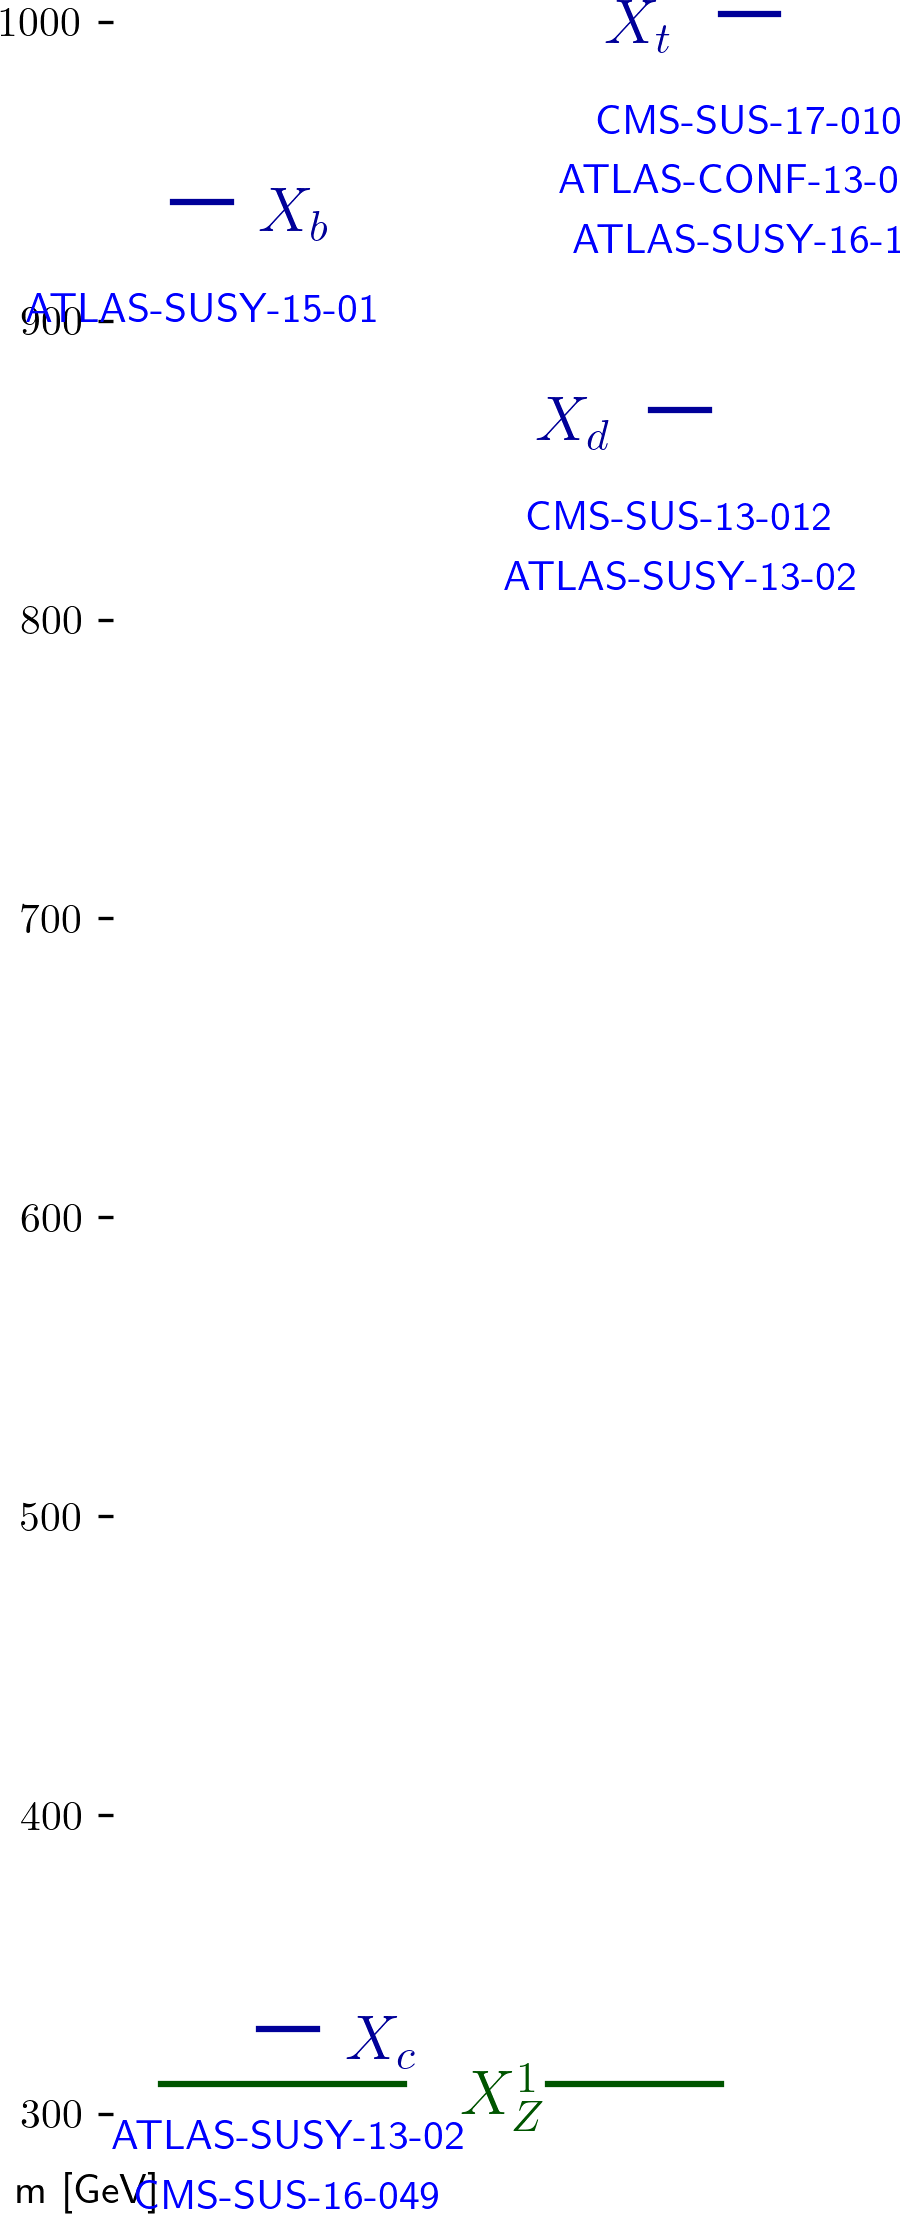
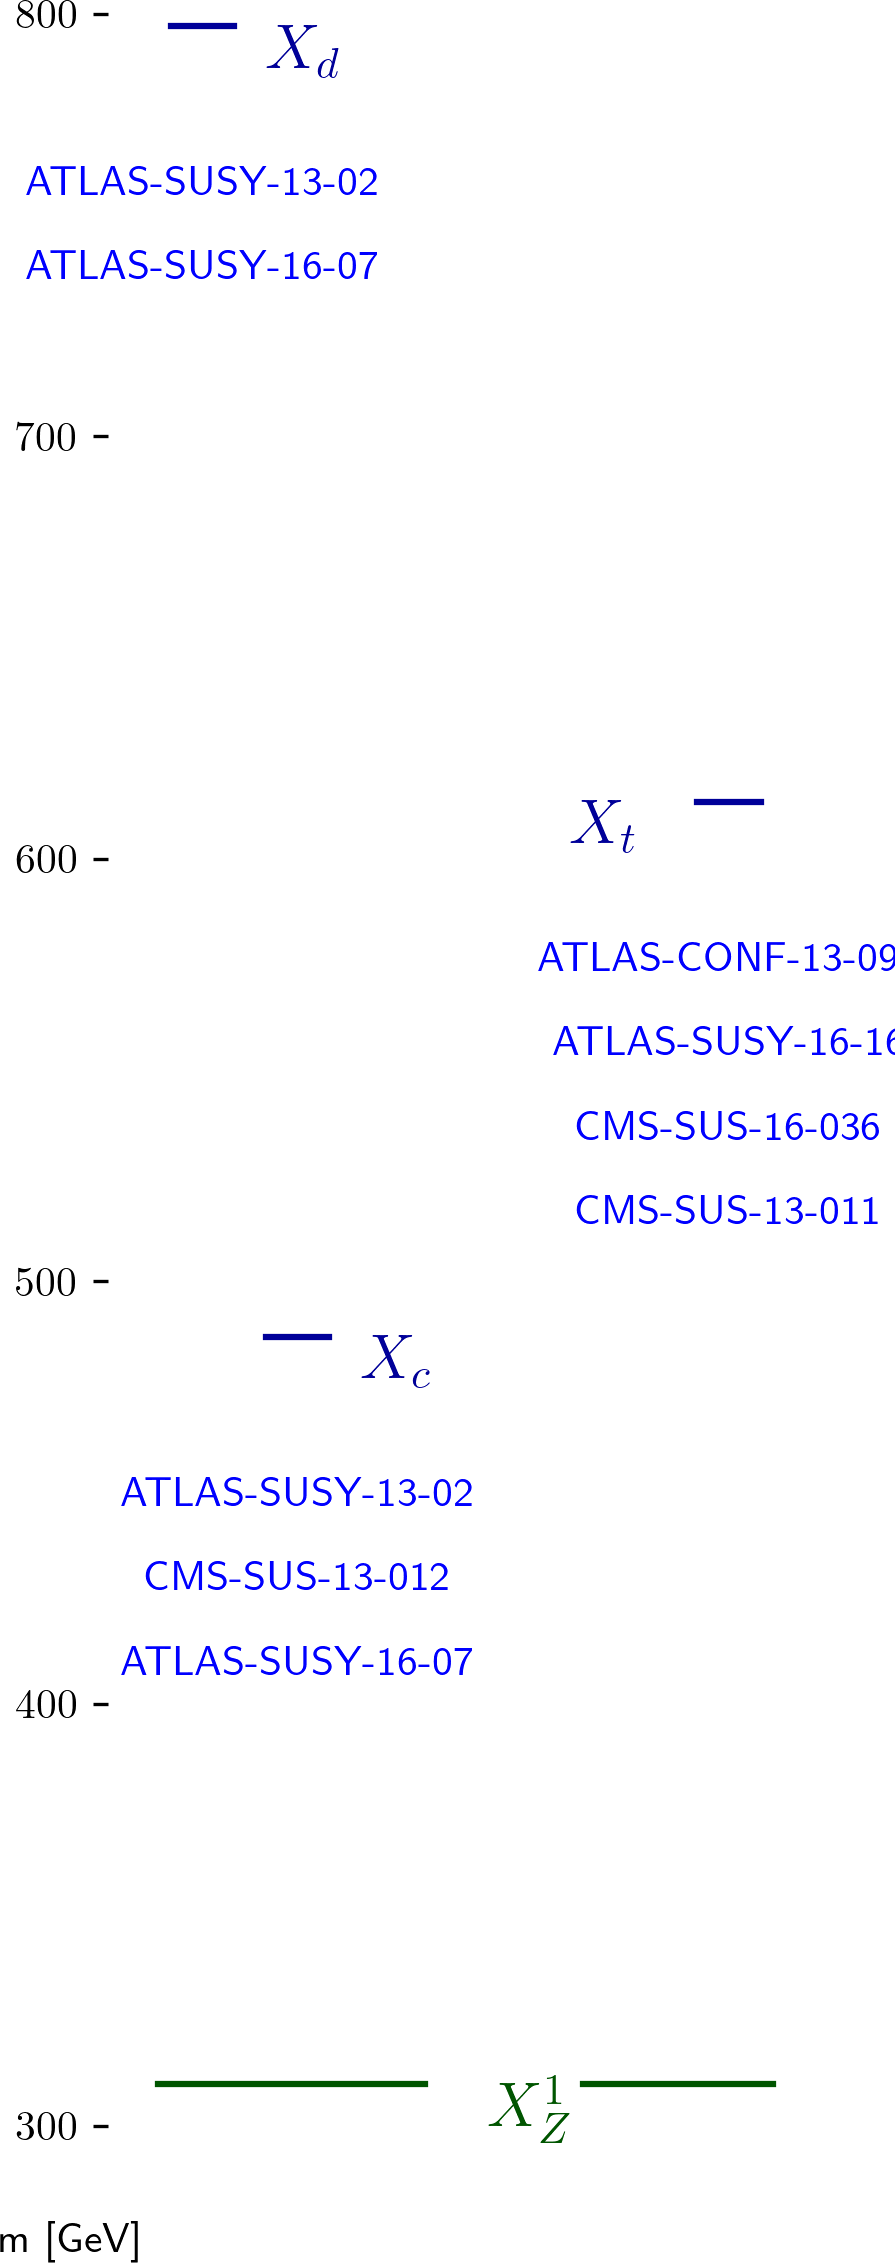
automated update by plotHiscore.py

diff --git a/protomodels/latest/rawnumbers.html b/protomodels/latest/rawnumbers.html
@@ -1,11 +1,11 @@
 <table>
 <tr><th>Analysis Name</th><th>Type</th><th>Dataset</th><th>Observed</th><th>Expected</th><th>Approx &sigma;</th><th>Particles</th>
 </tr>
-<tr><td><a href=https://atlas.web.cern.ch/Atlas/GROUPS/PHYSICS/PAPERS/SUSY-2015-01/>ATLAS-SUSY-2015-01</a></td><td>em</td> <td>SRA450</td><td>6</td><td>1.8 +/- 0.4</td><td style="text-align:right">3.0 &sigma;</td><td style="text-align:right">X<sub>b</sub></td></tr>
-<tr><td><a href=https://atlas.web.cern.ch/Atlas/GROUPS/PHYSICS/PAPERS/SUSY-2016-16/>ATLAS-SUSY-2016-16</a></td><td>em</td> <td>tN_high</td><td>7</td><td>3.8 +/- 1</td><td style="text-align:right">1.5 &sigma;</td><td style="text-align:right">X<sub>t</sub></td></tr>
-<tr><td><a href=http://cms-results.web.cern.ch/cms-results/public-results/publications/SUS-16-049/index.html>CMS-SUS-16-049</a></td><td>ul</td> <td>-</td><td> 2460.6 fb </td><td> 1206.8 fb</td><td style="text-align:right">2.0 &sigma;</td><td style="text-align:right">X<sub>t</sub></td></tr>
-<tr><td><a href=http://cms-results.web.cern.ch/cms-results/public-results/publications/SUS-17-010>CMS-SUS-17-010</a></td><td>ul</td> <td>-</td><td> 86.6 fb </td><td> 64.1 fb</td><td style="text-align:right">0.7 &sigma;</td><td style="text-align:right">X<sub>t</sub></td></tr>
-<tr><td><a href=https://atlas.web.cern.ch/Atlas/GROUPS/PHYSICS/CONFNOTES/ATLAS-CONF-2013-037/>ATLAS-CONF-2013-037</a></td><td>em</td> <td>SRtN3</td><td>8</td><td>5 +/- 2</td><td style="text-align:right">1.0 &sigma;</td><td style="text-align:right">X<sub>t</sub></td></tr>
-<tr><td><a href=https://atlas.web.cern.ch/Atlas/GROUPS/PHYSICS/PAPERS/SUSY-2013-02/>ATLAS-SUSY-2013-02</a></td><td>em</td> <td>SR6jtp</td><td>7</td><td>4.9 +/- 1.6</td><td style="text-align:right">0.8 &sigma;</td><td style="text-align:right">X<sub>d</sub>, X<sub>c</sub></td></tr>
-<tr><td><a href=https://twiki.cern.ch/twiki/bin/view/CMSPublic/PhysicsResultsSUS13012>CMS-SUS-13-012</a></td><td>ul</td> <td>-</td><td> 26.7 fb </td><td> 13.9 fb</td><td style="text-align:right">1.8 &sigma;</td><td style="text-align:right">X<sub>d</sub>, X<sub>c</sub></td></tr>
+<tr><td><a href=https://atlas.web.cern.ch/Atlas/GROUPS/PHYSICS/PAPERS/SUSY-2016-07/>ATLAS-SUSY-2016-07</a></td><td>em</td> <td>2j_Meff_1200</td><td>570</td><td>526 +/- 31</td><td style="text-align:right">1.1 &sigma;</td><td style="text-align:right">X<sub>d</sub>, X<sub>c</sub></td></tr>
+<tr><td><a href=https://atlas.web.cern.ch/Atlas/GROUPS/PHYSICS/PAPERS/SUSY-2016-16/>ATLAS-SUSY-2016-16</a></td><td>em</td> <td>tN_med</td><td>51</td><td>36.3 +/- 6.6</td><td style="text-align:right">1.6 &sigma;</td><td style="text-align:right">X<sub>t</sub></td></tr>
+<tr><td><a href=http://cms-results.web.cern.ch/cms-results/public-results/publications/SUS-16-036/index.html>CMS-SUS-16-036</a></td><td>ul</td> <td>-</td><td> 157.5 fb </td><td> 82.1 fb</td><td style="text-align:right">1.8 &sigma;</td><td style="text-align:right">X<sub>t</sub></td></tr>
+<tr><td><a href=https://atlas.web.cern.ch/Atlas/GROUPS/PHYSICS/CONFNOTES/ATLAS-CONF-2013-093/>ATLAS-CONF-2013-093</a></td><td>em</td> <td>SRBh</td><td>1</td><td>2.1 +/- 0.7</td><td style="text-align:right">-0.7 &sigma;</td><td style="text-align:right">X<sub>t</sub></td></tr>
+<tr><td><a href=https://atlas.web.cern.ch/Atlas/GROUPS/PHYSICS/PAPERS/SUSY-2013-02/>ATLAS-SUSY-2013-02</a></td><td>em</td> <td>SR6jtp</td><td>10</td><td>4.9 +/- 1.6</td><td style="text-align:right">1.9 &sigma;</td><td style="text-align:right">X<sub>d</sub>, X<sub>c</sub></td></tr>
+<tr><td><a href=https://twiki.cern.ch/twiki/bin/view/CMSPublic/PhysicsResultsSUS13011>CMS-SUS-13-011</a></td><td>em</td> <td>LM150</td><td>292</td><td>251 +/- 50</td><td style="text-align:right">0.8 &sigma;</td><td style="text-align:right">X<sub>t</sub></td></tr>
+<tr><td><a href=https://twiki.cern.ch/twiki/bin/view/CMSPublic/PhysicsResultsSUS13012>CMS-SUS-13-012</a></td><td>ul</td> <td>-</td><td> 899.0 fb </td><td> 598.4 fb</td><td style="text-align:right">1.0 &sigma;</td><td style="text-align:right">X<sub>t</sub></td></tr>
 </table>

diff --git a/protomodels/latest/index.html b/protomodels/latest/index.html
@@ -1,23 +1,23 @@
 <html>
 <body>
 <center>
-<table><td><h1>Current best protomodel: K=6.37</h1><td><img height=60px src=https://smodels.github.io/pics/banner.png></table>
+<table><td><h1>Current best protomodel: K=5.96</h1><td><img height=60px src=https://smodels.github.io/pics/banner.png></table>
 </center>
-<b><a href=./hiscore.slha>ProtoModel</a> <a href=./pmodel.py>(dict)</a> produced with <a href=https://smodels.github.io/docs/Validation123SM50>database v1.2.3SM50</a>, combination strategy <a href=./matrix_aggressive.png>aggressive</a> in walker 5 step 609.</b> . SSM plots for: <a href=./ssm_-1000006_1000006.png?4137686>(x&#772;<sub>t</sub>,X<sub>t</sub>)</a><br>
+<b><a href=./hiscore.slha>ProtoModel</a> <a href=./pmodel.py>(dict)</a> produced with <a href=https://smodels.github.io/docs/Validation123SM49>database v1.2.3SM49</a>, combination strategy <a href=./matrix_aggressive.png>aggressive</a> in walker 13 step 249.</b> . SSM plots for: <a href=./ssm_-1000006_1000006.png?4139168>(x&#772;<sub>t</sub>,X<sub>t</sub>)</a><br>
 <table width=80%>
 <tr><td>
-<br><b>50 predictions available. Highest r values are:</b><br><ul>
-<li><a href=http://cms-results.web.cern.ch/cms-results/public-results/publications/SUS-16-032/index.html>CMS-SUS-16-032</a>:T2bb r=1.30, r<sub>exp</sub>=N/A<br>
-<li><a href=http://cms-results.web.cern.ch/cms-results/public-results/publications/SUS-19-006/index.html>CMS-SUS-19-006</a>:T2bb r=0.88, r<sub>exp</sub>=1.49<br>
-<li><a href=http://cms-results.web.cern.ch/cms-results/public-results/publications/SUS-16-036/index.html>CMS-SUS-16-036</a>:T2bb r=0.87, r<sub>exp</sub>=1.14<br>
-<li><a href=http://cms-results.web.cern.ch/cms-results/public-results/publications/SUS-16-036/index.html>CMS-SUS-16-036</a>:T2cc r=0.86, r<sub>exp</sub>=0.72<br>
-<li><a href=http://cms-results.web.cern.ch/cms-results/public-results/publications/SUS-16-032/index.html>CMS-SUS-16-032</a>:T2cc r=0.70, r<sub>exp</sub>=N/A<br>
+<br><b>58 predictions available. Highest r values are:</b><br><ul>
+<li><a href=http://cms-results.web.cern.ch/cms-results/public-results/publications/SUS-16-049/index.html>CMS-SUS-16-049</a>:T2tt r=1.30, r<sub>exp</sub>=0.95<br>
+<li><a href=http://cms-results.web.cern.ch/cms-results/public-results/publications/SUS-16-050/index.html>CMS-SUS-16-050</a>:T2tt r=1.26, r<sub>exp</sub>=0.76<br>
+<li><a href=https://atlas.web.cern.ch/Atlas/GROUPS/PHYSICS/PAPERS/SUSY-2016-26/>ATLAS-SUSY-2016-26</a>:T2cc r=1.19, r<sub>exp</sub>=N/A<br>
+<li><a href=http://cms-results.web.cern.ch/cms-results/public-results/publications/SUS-16-036/index.html>CMS-SUS-16-036</a>:T2 r=1.12, r<sub>exp</sub>=1.29<br>
+<li><a href=http://cms-results.web.cern.ch/cms-results/public-results/publications/SUS-16-033/index.html>CMS-SUS-16-033</a>:T2tt,T2 r=1.06, r<sub>exp</sub>=1.16<br>
 </ul>
-<td><img width=600px src=./texdoc.png?1597137686>
-<br><font size=-1>Last updated: Tue Aug 11 11:21:26 2020</font>
+<td><img width=600px src=./texdoc.png?1597139168>
+<br><font size=-1>Last updated: Tue Aug 11 11:46:08 2020</font>
 </table><table style="width:80%">
-<td width=45%><img height=580px src=./ruler.png?1597137686><td width=55%><img height=380px src=./decays.png?1597137686>
-<font size=-3><iframe type="text/html" height="220px" width="100%s" frameborder="0" src="./rawnumbers.html?1597137686"></iframe></font>
+<td width=45%><img height=580px src=./ruler.png?1597139168><td width=55%><img height=380px src=./decays.png?1597139168>
+<font size=-3><iframe type="text/html" height="220px" width="100%s" frameborder="0" src="./rawnumbers.html?1597139168"></iframe></font>
 </table>
 </body>
 </html>

diff --git a/protomodels/latest/pmodel.py b/protomodels/latest/pmodel.py
@@ -1,1 +1,1 @@
-{'masses': {1000022: 300.014, 1000001: 860.031, 1000004: 318.327, 1000005: 929.737, 1000006: 992.627}, 'ssmultipliers': {(1000022, 1000022): 0.182, (1000001, 1000001): 0.055, (-1000001, 1000001): 0.137, (-1000001, -1000001): 0.137, (1000001, 1000022): 0.137, (-1000001, 1000022): 0.137, (1000004, 1000004): 0.218, (-1000004, 1000004): 0.218, (-1000004, -1000004): 0.218, (1000004, 1000022): 0.218, (-1000004, 1000022): 0.218, (1000001, 1000004): 0.218, (-1000004, 1000001): 0.218, (-1000001, 1000004): 0.218, (-1000004, -1000001): 0.218, (1000005, 1000005): 0.717, (-1000005, 1000005): 0.717, (-1000005, -1000005): 0.717, (1000005, 1000022): 0.717, (-1000005, 1000022): 0.717, (1000001, 1000005): 0.717, (-1000005, 1000001): 0.717, (-1000001, 1000005): 0.717, (-1000005, -1000001): 0.717, (1000004, 1000005): 0.717, (-1000005, 1000004): 0.717, (-1000004, 1000005): 0.717, (-1000005, -1000004): 0.717, (1000006, 1000006): 0.999, (-1000006, 1000006): 0.999, (-1000006, -1000006): 0.999, (1000006, 1000022): 0.999, (-1000006, 1000022): 0.999, (1000001, 1000006): 0.999, (-1000006, 1000001): 0.999, (-1000001, 1000006): 0.999, (-1000006, -1000001): 0.999, (1000004, 1000006): 0.999, (-1000006, 1000004): 0.999, (-1000004, 1000006): 0.999, (-1000006, -1000004): 0.999, (1000005, 1000006): 0.999, (-1000006, 1000005): 0.999, (-1000005, 1000006): 0.999, (-1000006, -1000005): 0.999}, 'decays': {1000022: {}, 1000001: {1000022: 1.0}, 1000004: {1000022: 1.0}, 1000005: {1000022: 1.0}, 1000006: {1000005: 0.487, 1000022: 0.513}}, 'timestamp': 'Tue Aug 11 11:21:13 2020', 'Z': 3.223, 'K': 6.373, 'step': 609, 'codever': '1.0', 'dbver': '1.2.3SM50'}
+{'masses': {1000022: 300.014, 1000001: 787.084, 1000006: 603.467, 1000004: 476.795}, 'ssmultipliers': {(1000022, 1000022): 0.177, (1000001, 1000001): 0.055, (-1000001, 1000001): 0.133, (-1000001, -1000001): 0.133, (1000001, 1000022): 0.133, (-1000001, 1000022): 0.133, (1000006, 1000006): 0.324, (-1000006, 1000006): 0.324, (-1000006, -1000006): 0.324, (1000006, 1000022): 0.324, (-1000006, 1000022): 0.324, (1000001, 1000006): 0.324, (-1000006, 1000001): 0.324, (-1000001, 1000006): 0.324, (-1000006, -1000001): 0.324, (1000004, 1000004): 0.973, (-1000004, 1000004): 0.973, (-1000004, -1000004): 0.973, (1000004, 1000022): 0.973, (-1000004, 1000022): 0.973, (1000001, 1000004): 0.973, (-1000004, 1000001): 0.973, (-1000001, 1000004): 0.973, (-1000004, -1000001): 0.973, (1000004, 1000006): 0.973, (-1000004, 1000006): 0.973, (-1000006, 1000004): 0.973, (-1000006, -1000004): 0.973}, 'decays': {1000022: {}, 1000001: {1000022: 1.0}, 1000006: {1000022: 1.0}, 1000004: {1000022: 1.0}}, 'timestamp': 'Tue Aug 11 11:45:54 2020', 'Z': 3.008, 'K': 5.96, 'step': 249, 'codever': '1.0', 'dbver': '1.2.3SM49'}
